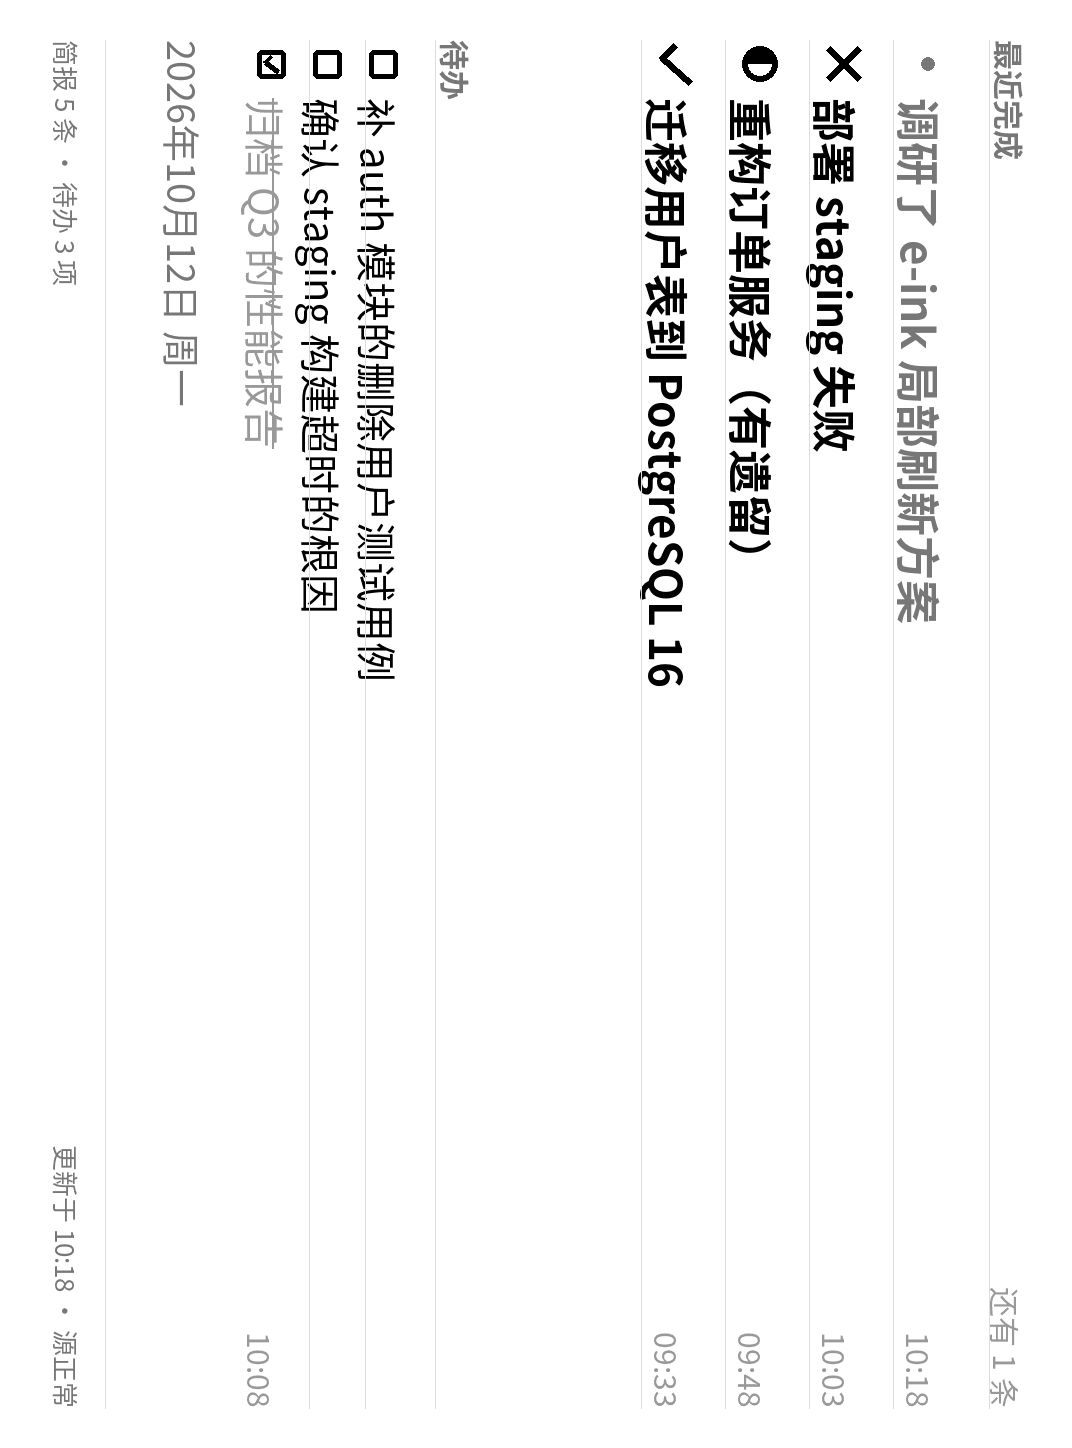
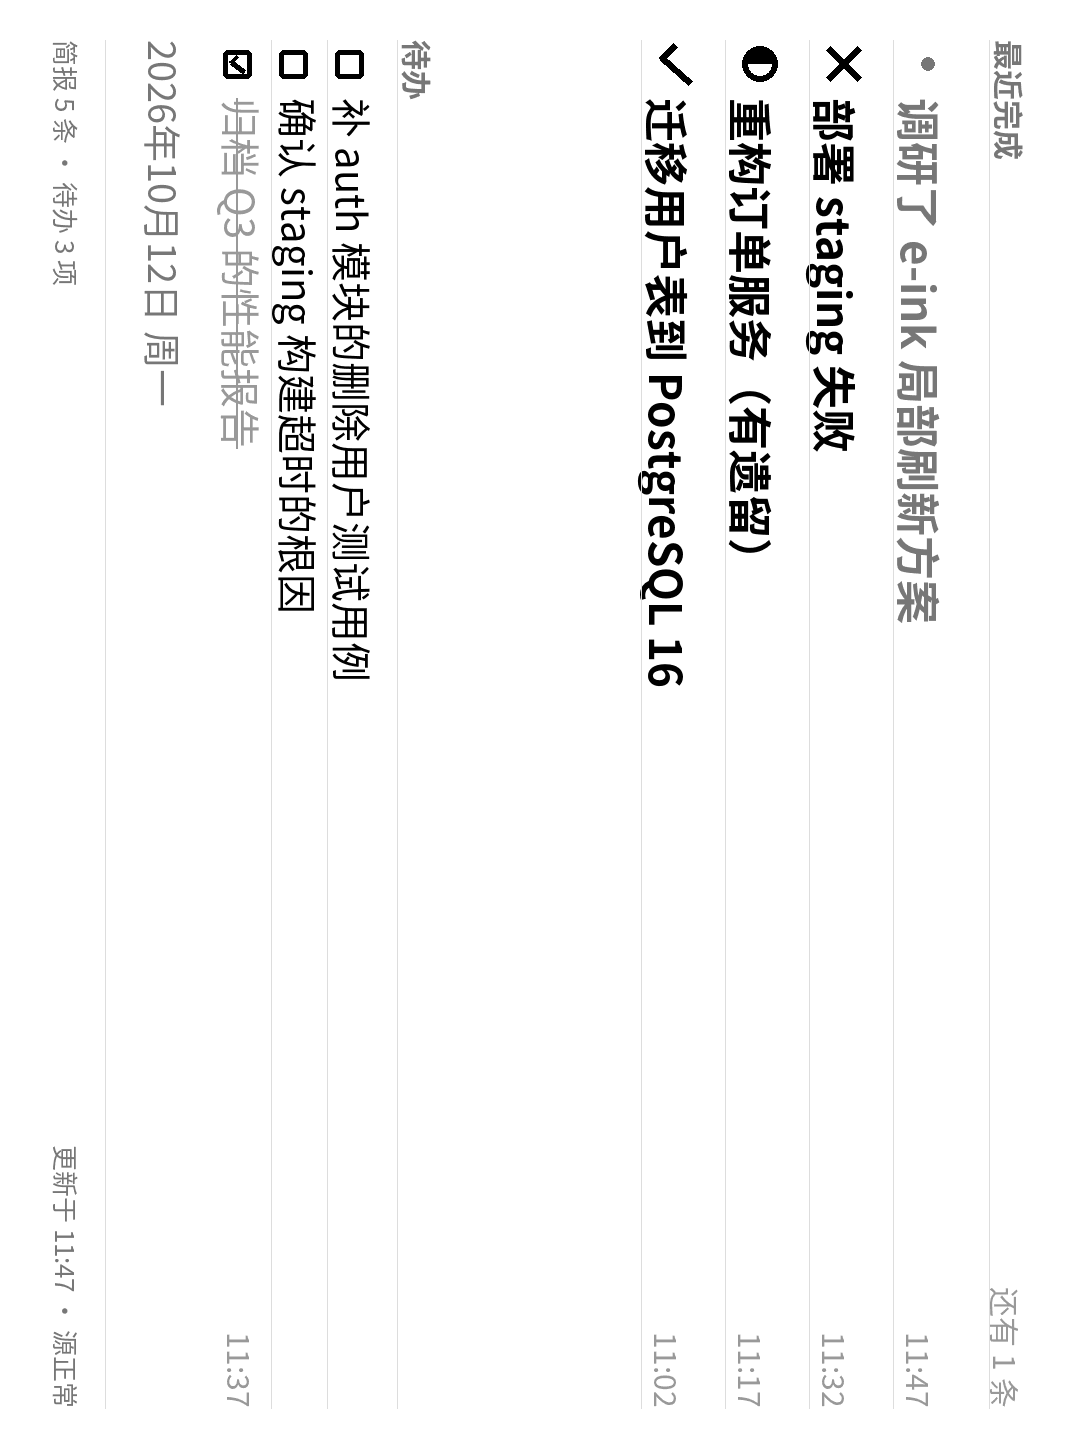
横屏：环境区压矮，修掉待办文字溢出条目
用户的反馈是「待办下方的日期显示往下放，现在占用了太多的位置」。

环境区高度是量出来的，不是拍脑袋定的
----------------------------------
先量了里面那一行内容的真实墨迹高度：

    时钟 56 号字 → 43px（三者里最高）
    日期 38 号字 → 37px
    天气 32 号字 → 30px

上下各留 ~15px 呼吸，73px 就够。而原来给了 112px —— 白扔 41px。

改成 74px 之后一举两得：环境区是**贴底**锚定的，压矮它等于顶边下移：

    112px → 环境区顶 836，待办最远到 824
     74px → 环境区顶 874，待办最远到 862

「往下放」和「少占地方」本来就是同一件事的两面。

顺带修掉一个溢出 bug
--------------------
把待办压到 56px 之后，量出来条目底边**紧下方有墨迹**，
追下去发现：`_draw_todo` 的签名里**根本没有条目高度**
（`def _draw_todo(d, t, y, f)`），几个元素都用写死的偏移
（文字 y+8、勾选框 y+32、删除线 y+30），那套是按竖屏 64px 调的。
40 号字的墨迹从 y+21 画到 y+65 —— **溢出 56px 的条目 9px**，
最后一条渗进了下面环境区上方的留白里。

这和之前那个「_fit 返回多行导致简报文字溢出」是同一类问题：
**画在哪必须由布局算出来的高度决定，不能在绘制里另写一套。**

这已经是同一个坑的第三次（简报 / 待办 / 环境区），所以这次把规矩立死：
凡是纵向位置一律从**分区中线**推——

    cy = y + h / 2
    d.text((x, cy - _text_v_offset(d, s, f)), s, …)

`_text_v_offset` 返回墨迹中心相对绘制 y 的偏移（按钮文字居中用的是同一个
函数）。竖屏 64 / 横屏 56、环境区 132 / 74 都自动正确。

测试
----
278 passed（新增 4 条）。其中两条是**像素级**的：
  * `test_todo_text_stays_inside_its_item` —— 待办区底边紧下方不许有墨迹
  * `test_ambient_content_is_vertically_centred` —— 上下留白之差 ≤ 8px

并且验证过判据**确实能抓到旧 bug**：把 `_draw_todo` 退回写死偏移后，
测试报 `条目高 56：待办区底边 862 紧下方出现了墨迹 [862, 863, 864]`。

diff --git a/kindlewarden/render.py b/kindlewarden/render.py
@@ -565,14 +565,29 @@ def _draw_brief(d: ImageDraw.ImageDraw, b: Brief, y: int, h: int, f: FontBook) -
     d.line([(MARGIN, y + h - 8), (MARGIN + CONTENT_W, y + h - 8)], fill=RULE, width=1)
 
 
-def _draw_todo(d: ImageDraw.ImageDraw, t: Todo, y: int, f: FontBook) -> None:
+def _draw_todo(d: ImageDraw.ImageDraw, t: Todo, y: int, h: int,
+               f: FontBook) -> None:
     """一条待办。勾选框落在图标列上，文字落在正文列上 —— 与简报同一条竖线。
 
-    条目高度 64：勾选框与文字都在 y+8..y+56 这条带子里垂直居中，
+    ⚠ **必须接收条目高度 ``h``**，所有元素按它居中。
+
+    踩过：原来签名里没有 ``h``，几个元素都用写死的偏移
+    （文字 y+8、勾选框 y+32、删除线 y+30、时间戳 y+22），
+    那套是按竖屏的 64px 调的。横屏把待办压到 56px 之后，
+    40 号字的墨迹从 y+21 一直画到 **y+65** —— **溢出条目 9px**，
+    最后一条的文字就渗进了下面环境区上方的留白里。
+
+    这和简报那个「_fit 返回多行导致溢出」是同一类问题：
+    **画在哪，必须由布局算出来的高度决定，不能在绘制里另写一套。**
+    现在改成从中线推：``cy = y + h / 2``，再用 :func:`_text_v_offset`
+    把墨迹对准它 —— 竖屏 64 / 横屏 56 都自动正确。
+
     最后一条不画分隔线（由调用方控制），避免在板块尾部多出一条悬空的线。
     """
     tf = f.get(F_TODO)
-    sym_checkbox(d, GUTTER_X, y + 32, 40, checked=t.done)
+    cy = y + h / 2                          # 条目中线，所有元素共用
+
+    sym_checkbox(d, GUTTER_X, cy, 40, checked=t.done)
 
     time_f = f.get(F_STAMP)
     stamp = format_clock(t.done_ts) if (t.done and t.done_ts) else ""
@@ -580,30 +595,42 @@ def _draw_todo(d: ImageDraw.ImageDraw, t: Todo, y: int, f: FontBook) -> None:
     color = LGRAY if t.done else BLACK
 
     txt = _fit(d, t.text, tf, TEXT_W - time_w)
-    d.text((TEXT_X, y + 8), txt, font=tf, fill=color)
+    txt_y = cy - _text_v_offset(d, txt, tf)
+    d.text((TEXT_X, txt_y), txt, font=tf, fill=color)
 
     if t.done:
-        d.line([(TEXT_X, y + 30), (TEXT_X + _tw(d, txt, tf), y + 30)],
+        # 删除线落在文字的**视觉中线**上 —— 跟着文字走，不写死
+        d.line([(TEXT_X, cy), (TEXT_X + _tw(d, txt, tf), cy)],
                fill=color, width=2)
     if stamp:
-        _right(d, MARGIN + CONTENT_W, y + 22, stamp, time_f, LGRAY)
+        _right(d, MARGIN + CONTENT_W,
+               cy - _text_v_offset(d, stamp, time_f), stamp, time_f, LGRAY)
 
 
 def _draw_ambient(d: ImageDraw.ImageDraw, cfg: Config, now: float, y: int,
                   f: FontBook) -> None:
     """环境区：时间 / 日期 / 天气。
 
-    这一区**贴底且不可变高**，读法是"页码"式的：时间在左、日期居中、天气在右。
+    这一区**贴底**锚定，读法是"页码"式的：时间在左、日期居中、天气在右。
     时钟打开时，三者共用一条视觉中线（而不是各自随意摆）—— 之前时钟配左、
     日期居中、两者基线还差 22px，看起来像没对齐完。
 
-    ⚠ 内部偏移**跟着分区高度走**（横屏 112 / 竖屏 132）。
+    ⚠ 所有元素都以**分区中线** ``cy`` 定位，不再用写死的偏移。
 
-    横屏时分区矮了 20px，如果还用竖屏的偏移，这一块内容会显得**偏上**、
-    底下空出一截 —— 而反馈恰恰是"时间要更靠下"。所以横屏把整行下移。
+    踩过两次同类的坑：
+
+      1. 用固定偏移画（按竖屏 132px 调的），横屏分区一改矮就**偏上**，
+         底下空一截；
+      2. 横屏压到 74px 后，原来那套 112px 的偏移会让日期**画到分区外面**去。
+
+    根子在于"偏移量"和"分区高度"被**各写各的**，改一个就错位。
+    改成从中线推：``cy = y + h / 2``，再用 :func:`_text_v_offset`
+    把**墨迹**对准它 —— 这样任何高度都自动居中，不会再溢出。
+    （``_text_v_offset`` 返回墨迹中心相对绘制 y 的偏移，
+      也是按钮文字居中用的同一个函数。）
     """
     h = _layout.metrics()["ambient_h"]
-    compact = h < _layout.AMBIENT_H
+    cy = y + h / 2                      # 分区中线，所有元素共用
 
     date_text = format_date(now)
 
@@ -611,16 +638,16 @@ def _draw_ambient(d: ImageDraw.ImageDraw, cfg: Config, now: float, y: int,
         clock_f = f.get(56, True)
         date_f = f.get(32)
         clock = format_clock(now)
-        d.text((MARGIN, y + (4 if compact else 14)), clock,
+        d.text((MARGIN, cy - _text_v_offset(d, clock, clock_f)), clock,
                font=clock_f, fill=BLACK)
         # 日期在**内容区**居中，而不是在画布居中 —— 否则会与右侧天气挤在一起
         cx = MARGIN + CONTENT_W / 2
         d.text((cx - _tw(d, date_text, date_f) / 2,
-                y + (28 if compact else 36)), date_text,
+                cy - _text_v_offset(d, date_text, date_f)), date_text,
                font=date_f, fill=GRAY)
     else:
         date_f = f.get(38)
-        d.text((MARGIN, y + (24 if compact else 32)), date_text,
+        d.text((MARGIN, cy - _text_v_offset(d, date_text, date_f)), date_text,
                font=date_f, fill=GRAY)
 
     if cfg.ambient.weather:
@@ -628,8 +655,9 @@ def _draw_ambient(d: ImageDraw.ImageDraw, cfg: Config, now: float, y: int,
         ww = _tw(d, cfg.ambient.weather, wf)
         icon = 40
         x0 = MARGIN + CONTENT_W - ww - icon - 14
-        sym_sun(d, x0 + icon / 2, y + (44 if compact else 52), icon)
-        d.text((x0 + icon + 14, y + (28 if compact else 36)),
+        sym_sun(d, x0 + icon / 2, cy, icon)
+        d.text((x0 + icon + 14,
+                cy - _text_v_offset(d, cfg.ambient.weather, wf)),
                cfg.ambient.weather, font=wf, fill=GRAY)
 
 
@@ -738,7 +766,7 @@ def render_board(board: Board, cfg: Config, *, now: float,
         _draw_label(d, "待办", z.label_y, f, z.overflow)
         for i, todo in enumerate(board.todos[:z.shown]):
             ty = z.y + i * z.item_h
-            _draw_todo(d, todo, ty, f)
+            _draw_todo(d, todo, ty, z.item_h, f)
             # 条间细线，**最后一条不画** —— 否则板块尾部会多出一条悬空的线
             if i < z.shown - 1:
                 d.line([(MARGIN, ty + z.item_h - 6),

diff --git a/tests/test_render.py b/tests/test_render.py
@@ -280,3 +280,117 @@ def test_brief_meta_line_stays_inside_its_item(fonts):
             f"简报条目底 {y0} 之后、待办标题 {y1} 之前的第 {y} 行有墨迹"
             f"（{ink} 个像素）—— 文字溢出了条目，会盖住待办"
         )
+
+
+def test_todo_text_stays_inside_its_item(fonts):
+    """待办文字必须完整落在自己的条目内 —— **两个方向都要**。
+
+    踩过：``_draw_todo`` 的签名里**根本没有条目高度**，几个元素都用写死的
+    偏移（文字 y+8、勾选框 y+32、删除线 y+30），那套是按竖屏 64px 调的。
+    横屏把待办压到 56px 之后，40 号字的墨迹从 y+21 一直画到 **y+65** ——
+    **溢出条目 9px**，最后一条渗进了下面环境区上方的留白里。
+
+    这和「``_fit`` 返回多行导致溢出」是同一类问题：
+    **画在哪必须由布局算出来的高度决定，不能在绘制里另写一套。**
+
+    判据：待办区底边之下、环境区之上，不许有任何墨迹。
+    """
+    from kindlewarden import layout, render
+
+    board = Board(
+        briefs=[Brief(id="b1", ts=TS, status="ok", title="标题",
+                      summary="摘要", project="p")],
+        # 用满几条，让"最后一条溢出"有机会暴露
+        todos=[Todo(id=f"t{i}", ts=TS, text=f"待办事项 {i} 的内容",
+                    done=(i == 0), done_ts=TS if i == 0 else 0)
+               for i in range(4)],
+        total_briefs=1, total_todos=4)
+
+    for w, h, name in ((layout.DEVICE_W, layout.DEVICE_H, "竖屏"),
+                       (layout.DEVICE_H, layout.DEVICE_W, "横屏")):
+        render.set_canvas(w, h)
+        try:
+            img, lay = render_board(board, Config(), now=TS, fonts=fonts)
+        finally:
+            render.reset_canvas()
+
+        z = lay.todos
+        assert z is not None, f"{name}: 没有待办区"
+        zone_bottom = z.y + z.h
+        limit = (lay.ambient_y if lay.ambient_y is not None
+                 else layout.CANVAS_H - layout.MARGIN)
+
+        # ⚠ 只看条目底边**紧邻的一小段**，不要把整段空白都扫进来 ——
+        #    内容区终止线（content_rule_y）是**故意**画在留白里的装饰线，
+        #    它离底边远，但扫太宽就会把它误判成溢出。
+        #    溢出的特征是"紧贴底边往下渗"，所以窗口取 16px 足够
+        #    （横屏那个 bug 溢出 9px，竖屏 1px）。
+        window_end = min(zone_bottom + 16, limit)
+        px = img.load()
+        offenders = []
+        for y in range(zone_bottom, window_end):
+            if lay.content_rule_y is not None and y == lay.content_rule_y:
+                continue                      # 装饰线，不是溢出
+            ink = sum(1 for x in range(layout.MARGIN,
+                                       layout.CANVAS_W - layout.MARGIN, 3)
+                      if px[x, y] < 240)
+            if ink > 2:
+                offenders.append(y)
+
+        assert not offenders, (
+            f"{name}（条目高 {z.item_h}）：待办区底边 {zone_bottom} 紧下方"
+            f"出现了墨迹 {offenders} —— 文字溢出了条目，"
+            f"会渗进下面的留白/环境区"
+        )
+
+
+def test_ambient_content_is_vertically_centred(fonts):
+    """环境区的日期/时钟必须在该区里**垂直居中**（两个方向 × 有时钟/无时钟）。
+
+    踩过：原来用写死的偏移（按竖屏 132px 调的），横屏压到 74px 后
+    日期会画到分区外面去。根子是"偏移量"和"分区高度"各写各的 ——
+    改一个就错位。
+
+    判据：分区内墨迹的上留白与下留白之差不超过几个像素，
+    而且不许溢出分区。
+    """
+    from kindlewarden import layout, render
+
+    board = Board(briefs=[Brief(id="b1", ts=TS, status="ok", title="t",
+                                summary="s")],
+                  todos=[Todo(id="t1", ts=TS, text="待办")],
+                  total_briefs=1, total_todos=1)
+
+    for w, h, name in ((layout.DEVICE_W, layout.DEVICE_H, "竖屏"),
+                       (layout.DEVICE_H, layout.DEVICE_W, "横屏")):
+        for show_clock in (False, True):
+            render.set_canvas(w, h)
+            try:
+                cfg = Config()
+                cfg.ambient.show_clock = show_clock
+                cfg.ambient.weather = "晴 22°C"
+                img, lay = render_board(board, cfg, now=TS, fonts=fonts)
+                amb_h = layout.metrics()["ambient_h"]
+            finally:
+                render.reset_canvas()
+
+            assert lay.ambient_y is not None
+            px = img.load()
+            rows = [y for y in range(lay.ambient_y, lay.ambient_y + amb_h)
+                    if sum(1 for x in range(layout.MARGIN,
+                                            layout.CANVAS_W - layout.MARGIN, 3)
+                           if px[x, y] < 240) > 2]
+
+            assert rows, f"{name} clock={show_clock}: 环境区里没有墨迹"
+            pad_top = min(rows) - lay.ambient_y
+            pad_bot = (lay.ambient_y + amb_h) - max(rows)
+
+            assert max(rows) < lay.ambient_y + amb_h, (
+                f"{name} clock={show_clock}: 环境区内容溢出分区"
+                f"（区 {lay.ambient_y}~{lay.ambient_y + amb_h}，"
+                f"墨迹到 {max(rows)}）"
+            )
+            assert abs(pad_top - pad_bot) <= 8, (
+                f"{name} clock={show_clock}: 环境区内容没居中 —— "
+                f"上留白 {pad_top}px、下留白 {pad_bot}px（区高 {amb_h}）"
+            )

diff --git a/tests/test_layout.py b/tests/test_layout.py
@@ -340,3 +340,42 @@ def test_portrait_layout_is_unchanged_by_the_landscape_work():
     assert lay.todos.item_h == layout.TODO_ITEM_H == 64
     # 竖屏仍然是"简报+待办一起居中"
     assert lay.briefs.shown == 5
+
+
+def test_landscape_ambient_is_compact(landscape):
+    """横屏环境区（日期/时钟/天气）必须**压矮**。
+
+    用户反馈：「待办下方的日期显示往下放，现在占用了太多的位置」。
+
+    实测里面那一行内容的墨迹高度：时钟 43px / 日期 37px / 天气 30px，
+    取最高 43px，上下各留 ~15px 呼吸 → **73px 就够**。
+    而原来给了 112px，白多出 41px。
+
+    环境区是**贴底**锚定的，所以压矮它 = 顶边下移 = 日期真的"往下放"，
+    同时把省下的空间让给上面的内容。
+    """
+    m = layout.metrics()
+    assert m["ambient_h"] < layout.AMBIENT_H, "横屏环境区应该比竖屏矮"
+    assert m["ambient_h"] <= 80, (
+        f"横屏环境区 {m['ambient_h']}px 还是太占地方 —— "
+        f"实测内容只要 ~73px"
+    )
+    # 不能矮到装不下一行时钟（43px 墨迹 + 呼吸）
+    assert m["ambient_h"] >= 60, (
+        f"横屏环境区 {m['ambient_h']}px 太矮，60 号字的时钟会溢出"
+    )
+
+
+def test_landscape_ambient_top_moves_down(landscape):
+    """环境区压矮之后，它的**顶边**必须下移（日期才会真的往下走）。"""
+    lay = plan(panels=PanelsConfig(), has_alert=False, n_briefs=8, n_todos=4)
+    m = layout.metrics()
+
+    # 用**旧值**算一遍顶边，和现在比
+    old_top = (layout.CANVAS_H - MARGIN - STATUS_H - GAP
+               - 112)          # 112 是改动前的横屏值
+    assert lay.ambient_y > old_top, (
+        f"环境区顶边 {lay.ambient_y} 没有比改动前的 {old_top} 更靠下"
+    )
+    # 而且它仍然贴着状态栏上方（只隔一个 GAP）
+    assert lay.status_y - (lay.ambient_y + m["ambient_h"]) == GAP

diff --git a/kindlewarden/layout.py b/kindlewarden/layout.py
@@ -99,7 +99,23 @@ TODOS_WEIGHT = 1.0
 # 两边不可能不一致 —— 这是"布局和绘制必须同源"的又一次应用。
 LANDSCAPE_BRIEF_ITEM_H = 84
 LANDSCAPE_TODO_ITEM_H = 56
-LANDSCAPE_AMBIENT_H = 112
+#: 环境区（日期/时钟/天气）的高度。
+#:
+#: ⚠ 这个值是**量出来的**，不是拍脑袋定的。
+#:
+#: 实测里面那一行内容的墨迹高度：
+#:     时钟 56 号字 → 43px（最高）
+#:     日期 38 号字 → 37px
+#:     天气 32 号字 → 30px
+#: 三者同处一行，取最高 43px，上下各留 ~15px 呼吸 → **73px** 就够。
+#:
+#: 之前给的是 112px —— 白白多出 41px。用户的原话是
+#: 「待办下方的日期显示往下放，现在占用了太多的位置」。
+#: 环境区是**贴底**锚定的，所以把它压矮，它的**顶边**就随之下移：
+#:     112px → 环境区顶 836，待办最远到 824
+#:      74px → 环境区顶 874，待办最远到 862
+#: 一块改动同时满足"往下放"和"少占地方"。
+LANDSCAPE_AMBIENT_H = 74
 LANDSCAPE_ALERT_H = 168
 #: 横屏最多显示几条「最近完成」。
 LANDSCAPE_MAX_BRIEFS = 4

diff --git a/docs/dev-notes.md b/docs/dev-notes.md
@@ -535,7 +535,7 @@ if _tw(d, s, f) <= max_w:
 |---|---|---|---|
 | 简报条目 | 128（两行） | **84（只标题一行）** | 横屏很宽，标题一行放得下 |
 | 待办条目 | 64 | **56** | 更紧凑 |
-| 环境区 | 132 | **112** | 用户要求"时间更靠下" |
+| 环境区 | 132 | **74** | 见下：量出来的 |
 | 告警条 | 196 | **168** | 内部节奏按比例收紧 |
 | 最近完成上限 | 配置值 | **4** | 用户明确要求 |
 
@@ -548,9 +548,54 @@ if _tw(d, s, f) <= max_w:
 横屏则把多余空白**全部塞在简报之后**，于是待办落到紧贴环境区之上。
 做法是给 todos 预留它要的高度，简报拿剩下的，空白加在两块之间。
 
-⚠ 所有内部偏移都要**跟着分区高度走**。``_draw_alert`` / ``_draw_ambient``
-原来用写死的偏移（按竖屏的 196/132 调的），横屏分区变矮后会显得偏上、
-甚至贴到边界。现在它们从 ``layout.metrics()`` 读高度再决定偏移。
+#### 分区高度要**量出来**，不能拍脑袋
+
+环境区那条最初给了横屏 112px。用户反馈「待办下方的日期显示往下放，
+现在占用了太多的位置」。一量才发现内容根本用不了那么多：
+
+```
+时钟 56 号字 → 墨迹 43px（三者里最高）
+日期 38 号字 → 37px
+天气 32 号字 → 30px
+上下各留 ~15px 呼吸 → 73px 就够
+```
+
+给 112px = 白扔 41px。改成 **74px** 之后一举两得 ——
+环境区是**贴底**锚定的，压矮它等于**顶边下移**：
+
+```
+112px → 环境区顶 836，待办最远到 824
+ 74px → 环境区顶 874，待办最远到 862
+```
+
+「往下放」和「少占地方」本来就是同一件事的两面。
+
+#### ⚠ 偏移量和分区高度，只能有一处是真的
+
+这一节是同一个坑的**第三次**出现，值得单独记：
+
+| 次 | 出问题的地方 | 症状 |
+|---|---|---|
+| 1 | ``_fit`` 返回多行 | 简报文字溢出条目，盖住待办 |
+| 2 | ``_draw_todo`` 写死 ``y+8`` | 待办文字溢出 56px 的条目 9px |
+| 3 | ``_draw_ambient`` 写死偏移 | 分区压矮后日期画到区外 |
+
+共同点：**绘制里另写了一套位置，和布局算出来的高度对不上。**
+只要"分区高度"改了，写死的那套就静默错位 —— 而不报任何错。
+
+现在的规矩：**凡是纵向位置，一律从分区中线推**。
+
+```python
+cy = y + h / 2                                  # 分区中线
+d.text((x, cy - _text_v_offset(d, s, f)), s, …)  # 把墨迹对准中线
+```
+
+``_text_v_offset`` 返回墨迹中心相对绘制 y 的偏移（按钮文字居中用的
+是同一个函数）。这样竖屏 64 / 横屏 56、环境区 132 / 74 都自动正确。
+
+⚠ 顺带一个教训：``_draw_todo`` 原来的签名里**根本没有条目高度**
+（``def _draw_todo(d, t, y, f)``）—— 它想跟着布局走也做不到。
+**函数签名里缺了那个决定布局的量，就是一个迟早会踩的坑。**
 
 #### 一个通用的教训：测试判据太弱等于没测
 
